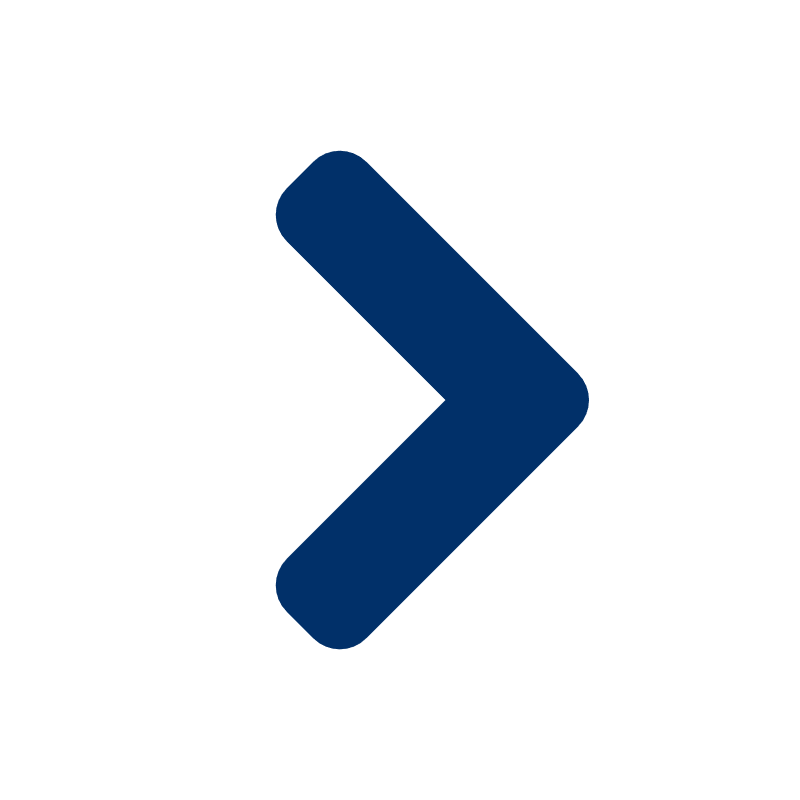
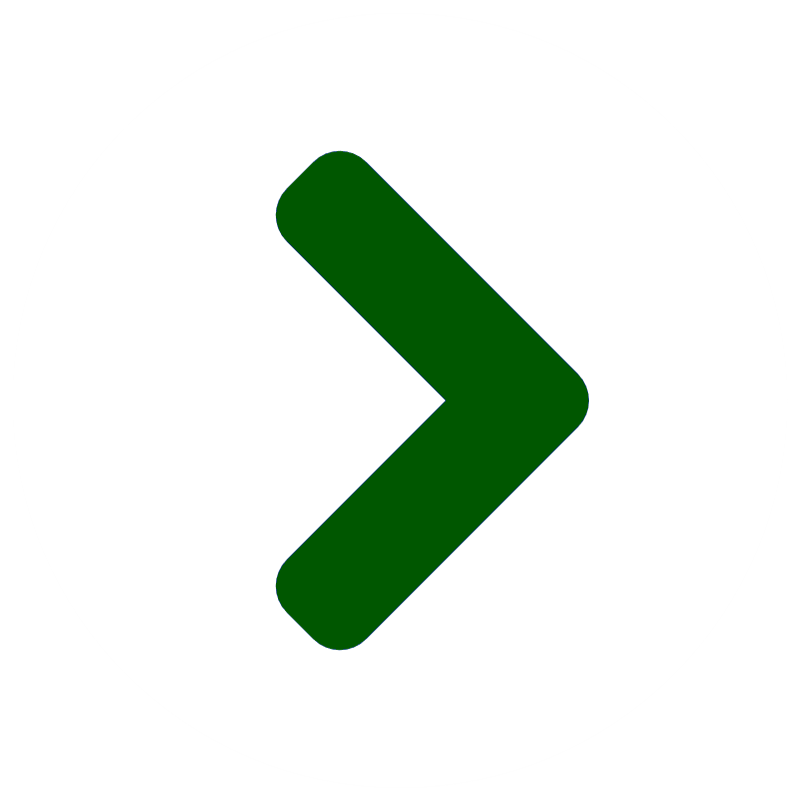
NUEVA INTERFAZ DE USUARIOS

Changed region(s): [[0.3438, 0.1875, 0.75, 0.8125]]

diff --git a/public/css/mantenimientoUsuarios.css b/public/css/mantenimientoUsuarios.css
@@ -3,38 +3,46 @@
 	flex: 0;
 }
 #tablaUsuarios{
-background: rgb(0,18,111);
-background: linear-gradient(90deg, rgba(0,18,111,1) 0%, rgba(0,136,147,1) 100%);border-radius:0px 0px 20px 20px;
--webkit-box-shadow: 1px 1px 25px 0px rgba(0,0,0,0.93);
--moz-box-shadow: 1px 1px 25px 0px rgba(0,0,0,0.93);
+background: white;
+border-radius:0px 0px 0px 0px;
 box-shadow: 1px 1px 25px 0px rgba(0,0,0,0.93); 
 flex:0;
 padding: 0px 20px 20px 20px;
 margin: auto;
 min-width: 900px;
+height: 200px;
 }
+ 
+ tbody tr>.number{
+ 	
+ 	color:black;
+ 	font-weight: bold;
+ }
+
 
 #tablaUsuarios caption{
-background: rgb(0,40,244);
-background: linear-gradient(90deg, rgba(0,40,244,1) 0%, rgba(0,208,224,1) 100%);
+background: rgb(21,144,14);
+background: radial-gradient(circle, rgba(21,144,14,1) 0%, rgba(0,87,3,1) 100%);
 border-radius:20px 20px 0px 0px;
 height: 30px;
-padding-top: 10px;
+padding: 20px 0px 20px 0px;
 color: white;
 font-weight: bold;
+font-size: 20px;
 }
 #tablaUsuarios tbody th{
 background-color: rgba(255,255,255,0.5);
-border-radius: 10px;
+border-bottom: 1px black solid;
+font-size: 17px;
 }
 
 #tablaUsuarios tbody tr{
 margin-left:50px;
 }
 
-#tablaUsuarios tbody tr td{
-background-color: rgba(0,0,0,0.5);
-color: white;
+#tablaUsuarios tbody tr>.fila{
+color: darkgreen;
+font-weight: bold;
 border-radius: 10px;
 cursor: pointer;
 }
@@ -43,10 +51,13 @@ cursor: pointer;
 background-color: rgba(0,0,0,0.2);
 }
 
-
 #botonesEdicion{
+box-shadow: 4px 30px 47px -2px rgba(0,0,0,0.9);
+background: radial-gradient(circle, rgba(21,144,14,1) 0%, rgba(0,87,3,1) 100%);
 letter-spacing: 60px;
-margin-top: 50px;
+padding: 20px 0px 20px 0px;
+border-radius: 0px 0px 20px 20px;
+
 }
 
 .btn_guardar{  
@@ -55,8 +66,8 @@ height: 40px;
 width: 130px;
 border:2px white solid;
 border-style: inset;
-background: green;
-color:white;
+background: white;
+color:green;
 border-radius: 100px;
 padding: 4px 22px 5px 22px;
 font-size: 16px;
@@ -66,36 +77,6 @@ outline: none;
 
 }
 
-.btn_eliminar{
-cursor: pointer;
-height: 40px;
-width: 130px;
-border-radius: 100px;
-border:2px white solid;
-border-style: inset;
-background: darkred;
-color:white;
-padding: 4px 22px 5px 22px;
-font-size: 16px;
-font-family: 'Quicksand';
-font-weight: 900;
-outline: none;
-}
-.btn_editar{
-cursor: pointer;
-height: 40px;
-width: 130px;
-border-radius: 100px;
-border:2px white solid;
-border-style: inset;
-background: #3271a8;
-color:white;
-padding: 4px 22px 5px 22px;
-font-size: 16px;
-font-family: 'Quicksand';
-font-weight: 900;
-outline: none;
-}
 
 .btn_guardar:hover,.btn_eliminar:hover, .btn_editar:hover  {
 transition: 0.2s;
@@ -115,7 +96,7 @@ box-shadow: 0 5px 5px rgba(0, 0, 0, 0.8);
 	transition: 0.5s;
 	border: 1px white solid;
 	align-items: center;
-    background: linear-gradient(180deg, rgba(3,6,143,0.8519782913165266) 0%, rgba(1,48,105,1) 97%);
+    background: radial-gradient(circle, rgba(21,144,14,1) 0%, rgba(0,87,3,1) 100%);
     padding: 0px 50px 50px 50px;
 	display: flex;
 	flex-direction: column;
@@ -190,9 +171,11 @@ border: 1px white solid;
 background-color: rgba(0,0,0,0.3);
 color: white;
 height: 30px;
+outline: none;
 }
 #agregarUsuario select{
  width: 180px;
+ height: 40px;
 }
  #RegUsuarios{
  	font-weight: bold;

diff --git a/public/css/main-style.css b/public/css/main-style.css
@@ -14,7 +14,7 @@ min-width: 100%;
 }
 
 #cabeza{
-	background-color: black;
+background-color: black;
 box-shadow: 0px 0.3rem 1rem black;
 display: flex;
 font-family: 'Quicksand', sans-serif;
@@ -87,7 +87,8 @@ white-space: nowrap;
 
 #contenido{
 display: flex;
-background: linear-gradient(180deg, rgba(255,255,255,1) 0%, rgba(145,165,190,1) 53%, rgba(1,48,105,1) 97%);
+background: rgb(97,97,97);
+background: radial-gradient(circle, rgba(97,97,97,1) 0%, rgba(0,0,0,1) 100%);
 padding-top: 10px;
 padding-bottom: 70px;	
 height: 100%;

diff --git a/resources/views/app/MantenimientoUsuarios.blade.php b/resources/views/app/MantenimientoUsuarios.blade.php
@@ -41,35 +41,32 @@
                   <th>Rol</th>
                 </tr>
                 <tr>
-                  <th>1</th>
-                  <td>Diego Tames Vargas</td>
-                  <td>thamesdiego@gmail.com</td>
-                  <td>Tames</td>
-              
-                  <td>Sitio web</td>
+                  <td class="number">1</td>
+                  <td class="fila">Diego Tames Vargas</td>
+                  <td class="fila">thamesdiego@gmail.com</td>
+                  <td class="fila">Tames</td>
+                  <td class="fila">Sitio web</td>
                 </tr>
                 <tr>
-                  <th>2</th>
-                 <td>Lizeth Monge Padilla</td>
-                 <td>lizmonge15@gmail.com</td>
-                 <td>Liz MP</td>
-              
-                 <td>Mi árbol para la vida</td>
+                  <td  class="number">2</td>
+                 <td class="fila">Lizeth Monge Padilla</td>
+                 <td class="fila">lizmonge15@gmail.com</td>
+                 <td class="fila">Liz MP</td>
+                 <td class="fila">Mi árbol para la vida</td>
                 </tr>
                  <tr>
-                  <th>3</th>
-                 <td>Stefanny Barrantes Vargas</td>
-                 <td>barrantesdenia@gmail.com</td>
-                 <td>Tefa</td>
-              
-                 <td>Sitio web</td>
+                  <td class="number">3</td>
+                 <td class="fila">Stefanny Barrantes Vargas</td>
+                 <td class="fila">barrantesdenia@gmail.com</td>
+                 <td class="fila">Tefa</td>
+                 <td class="fila">Sitio web</td>
                 </tr>
               </tbody>
             </table>
             <div id="botonesEdicion">
                 <button class="btn_guardar"> Guardar</button>
-                <button class="btn_eliminar"> Eliminar</button>
-                <button class="btn_editar"> Editar</button>
+                <button class="btn_guardar"> Eliminar</button>
+                <button class="btn_guardar"> Editar</button>
             </div>
           </div>
         </div>
